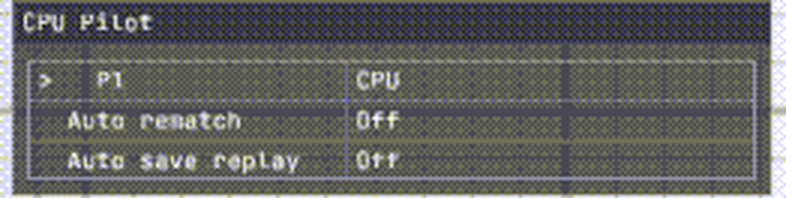
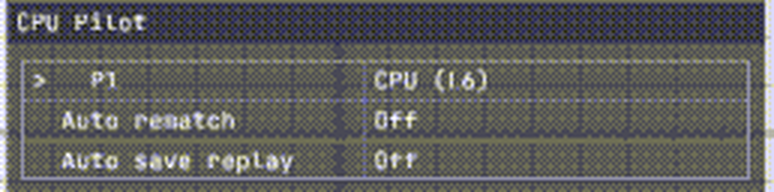
Docs: README GIF and crops of the P1 row's level; 0.2.1 Eden evidence
README media from Eden m05 (Deluxe 0.10.1, pilot 0.2.1 release, the card set):
CPU (L5) -> L+R+X -> L6 -> L7, Window Options with the whole Stages +
Counterpick label, the CPU fighting. EDEN-RESULTS: m04 (one step per press in
battle with the window open) and m05 (L+R+X on the row outside battle).

diff --git a/docs/media/README.md b/docs/media/README.md
@@ -1,16 +1,15 @@
 # README media — 2026-11-01
 
-All three come from Eden run `m02` on the Ally (Training, Sephiroth vs a CPU
-Kirby): Online Deluxe 0.10.0 `a070b1a7…` and the pilot release build
-`49efcc06…` (commit `be1838f`; the page and rows are those of 0.2.0). Run
-evidence: `/home/intpa/ssbu-cpu-pilot/eden/runs/m02/` and
+All three come from Eden run `m05` on the Ally (Training, Sephiroth vs a CPU
+Steve, the operator's 16-plugin card set): Online Deluxe 0.10.1 `a8dcda24…`
+and the ssbu-cpu-pilot 0.2.1 release build `e3033426…`. Run evidence:
+`/home/intpa/ssbu-cpu-pilot/eden/runs/m05/` and
 [EDEN-RESULTS.md](../EDEN-RESULTS.md).
 
 | File | SHA-256 | Source |
 | --- | --- | --- |
[6 lines of base64/hex data omitted]
 
-Crops: `eden/m02/crops.py <gif> 3.0 <still> <out_dir>` in the work folder
-(Pillow).
+Crops: `eden/m05/crops.py <gif> <out_dir>` in the work folder (Pillow).

diff --git a/docs/EDEN-RESULTS.md b/docs/EDEN-RESULTS.md
@@ -351,4 +351,32 @@ page). Surface :78 for w01, the Ally (as above) for the rest. Evidence in
   5.6%). `eden_log.txt` 5,464 lines, no panic/abort/crash event (the one match
   is the setting name).
 
+### 0.2.1: the P1 row's level and L+R+X (m04, m05)
+
+2026-11-01, the Ally, Online Deluxe 0.10.1 `a8dcda24…` (L+R+X on a plugin row
+requests its current choice; the label column fits), the card's 16 NROs with
+both builds in place, the tile cursor, and the card's Deluxe INI. Evidence in
+`/home/intpa/ssbu-cpu-pilot/eden/runs/{m04,m05}/`.
+
+- **m04, pass (diag `c3d2e0bc…`, `502b6e2`), in Training with the window
+  open:** ZR+Right showed `CPU (L3)` (`arm level=3`), and two L+R+X presses
+  showed `CPU (L4)` and `CPU (L5)` with exactly two pad steps logged
+  (`combo level=4`, `combo level=5`): Deluxe's request for the same press did
+  not step it again. Window Options showed `Stages + Counterpick` whole. One
+  ZR+Left: `Player` (`release restored=true`); ZR+Right again armed at level 5.
+  The game's Training menu (Plus) did not stop battle input mapping (no
+  `stale` line), so the next L+R+X stepped through the pad (`combo level=6`,
+  `config.ini` `level=6`).
+- **m05, pass (release `e3033426…`, `502b6e2`):** on the main menu after boot,
+  with no battle running (P1's pad path cannot act there), the page went
+  `Player` → ZR+Right `CPU (L3)` → L+R+X `CPU (L4)` → L+R+X `CPU (L5)` →
+  ZR+Left `Player`, and `config.ini` kept `level=5`: one step per press through
+  Deluxe's request alone. Then in Training (README GIF): ZR+Right `CPU (L5)`,
+  L+R+X `CPU (L6)` and `CPU (L7)` with the HUD tag following (`CPU Lv5` →
+  `CPU Lv7`), Window Options, and P1 fought alone (Steve 0 → 10%). Right after
+  a level change the game briefly shows P1's own name tag: the level is applied
+  by handing P1 back and arming again, as in 0.1.0.
+- Both: `eden_log.txt` 5,800 and 5,657 lines, no panic/abort/crash event (the
+  one match is the setting name); run folders deleted, RELEASED.
+
 **Not yet run in Eden:** a replay A/B with the detector.

diff --git a/README.md b/README.md
@@ -5,18 +5,19 @@ game's own CPU and back, at any time: step away mid-match, or let a CPU play
 your side while you test a mod. It can also answer the online "Rematch?"
 pop-up and save replays for you, offline and online.
 
-![Online Deluxe's CPU Pilot page: P1 switched from Player to CPU, then the CPU fights on its own](docs/media/cpu-pilot-page.gif)
+![Online Deluxe's CPU Pilot page: P1 switched from Player to CPU (L5), L+R+X steps it to L6 and L7, then the CPU fights on its own](docs/media/cpu-pilot-page.gif)
 
 *Eden, 2026-11-01, Training: L+R+Down to the CPU Pilot page, ZR+Right sets P1
-to CPU (tag `CPU Lv9`), the window closes and the CPU fights with the
-controller idle. Online Deluxe 0.10.0, ssbu-cpu-pilot 0.2.0 code, 10 fps.*
+to `CPU (L5)`, L+R+X twice steps it to `CPU (L7)` (HUD tag `CPU Lv7`), Window
+Options, then the window closes and the CPU fights with the controller idle.
+Online Deluxe 0.10.1, ssbu-cpu-pilot 0.2.1, 10 fps.*
 
 ## Use
 
 Press **L+R+Down** until Online Deluxe shows the **CPU Pilot** page, then
 **ZR+Right/Left** on a row:
 
-![The CPU Pilot page: P1 CPU (L4), Auto rematch Off, Auto save replay Off](docs/media/cpu-pilot-page-crop.png)
+![The CPU Pilot page: P1 CPU (L6), Auto rematch Off, Auto save replay Off](docs/media/cpu-pilot-page-crop.png)
 
 | Row | |
 | --- | --- |
